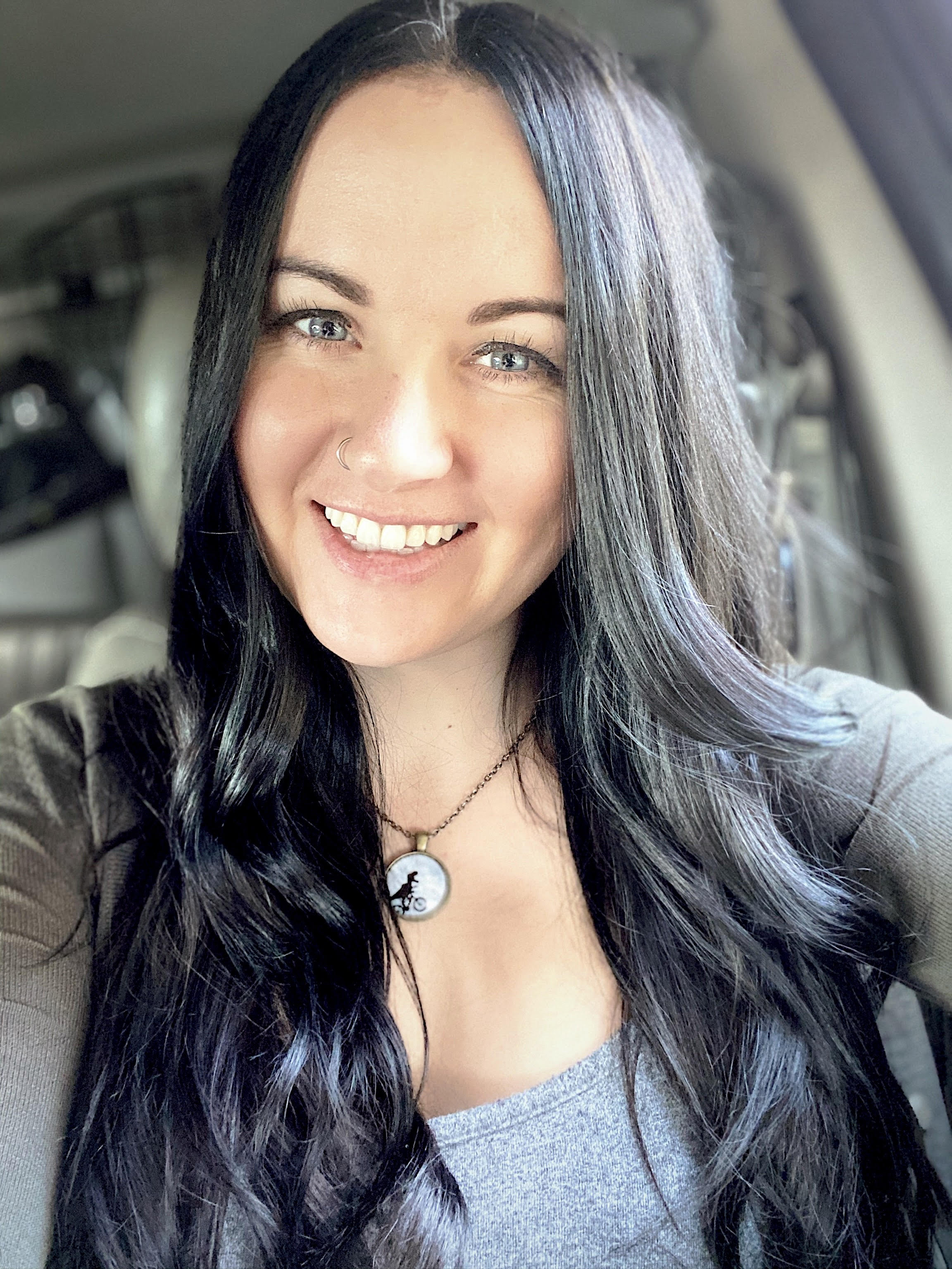
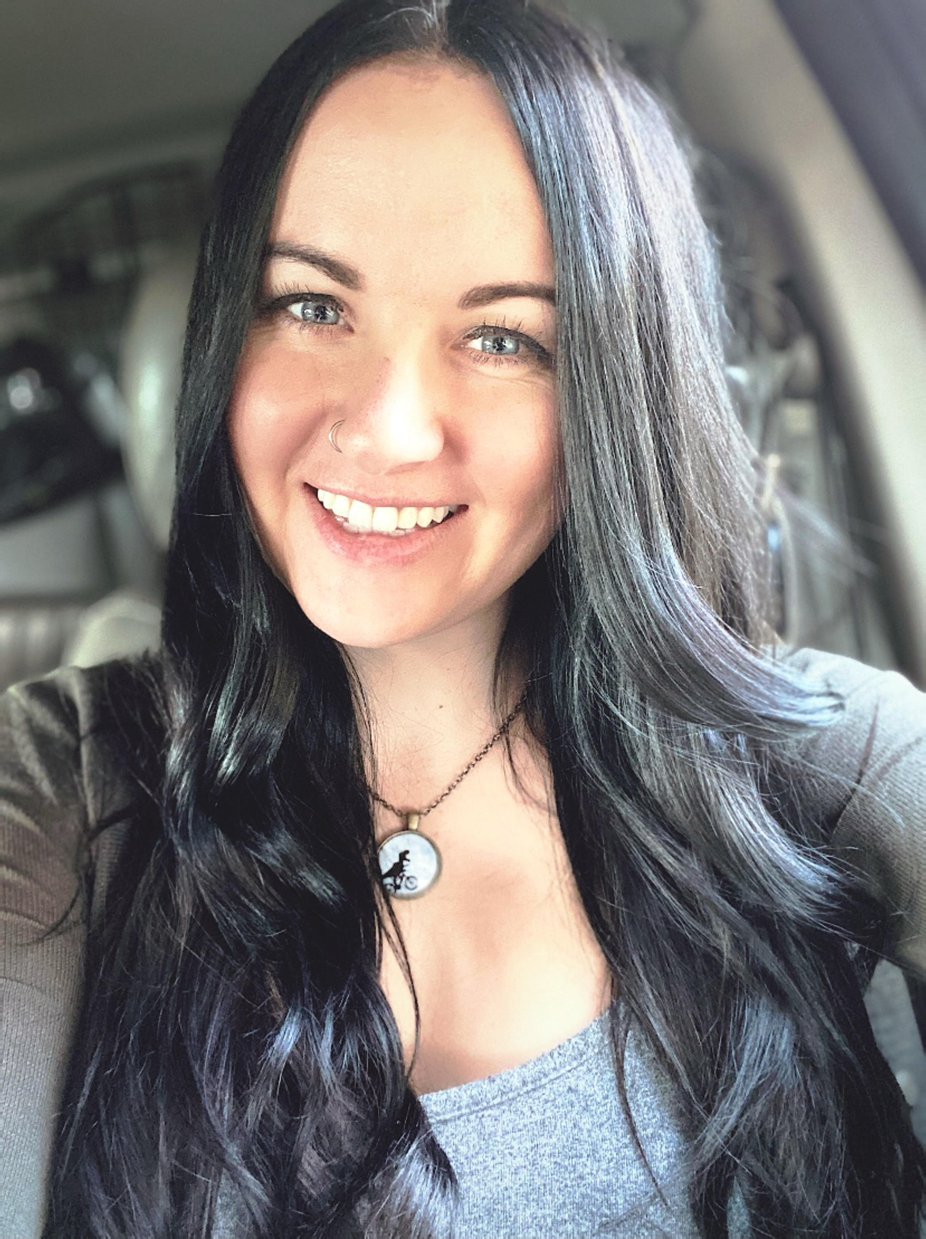
Moved profile picture into its own component and adjusted it to be a hexagon versus an oval.

diff --git a/src/components/Picture.js b/src/components/Picture.js
@@ -1,0 +1,32 @@
+import React from 'react';
+import main from '../images/main.jpg';
+
+const Picture = props => {
+    return (
+        <>
+            <svg viewBox="0 0 100 100" version="1.1" xmlns="http://www.w3.org/2000/svg" width="25%">
+            <defs>
+              <pattern id="img" patternUnits="userSpaceOnUse" width="200" height="200">
+                <image 
+                  href={main} 
+                  x="-25" 
+                  width="150" 
+                  height="110" 
+                  className="image" 
+                  alt="Main"
+                  style={{
+                      float: "left",
+                  }}/>
+              </pattern>
+            </defs>
+            <polygon 
+                points="50 1 95 25 95 75 50 99 5 75 5 25"
+                fill="url(#img)"/>
+            </svg>
+        </>
+    )
+}
+
+//<!-- "https://api.github.com/users/micah-rose/avatar_url" -->
+
+export default Picture;

diff --git a/src/containers/Header.js b/src/containers/Header.js
@@ -1,14 +1,11 @@
 import React from 'react';
-import main from '../images/main.jpg';
+import Picture from '../components/Picture';
 
 const Header = props => {
     return (
     <>
         <div className="container-fluid bg-1 text-center">
-            <div className="image" style={{float: "left", marginLeft: "50px"}}>
-                <img src={main} className="img-responsive img-circle margin" alt="Main" width="350" height="350" />
-            </div>
-  
+            <Picture />
             <div className="header-stuff" style={{display: "inline-block", marginTop: "100px"}}>
                 <h3 className="margin" style={{fontSize: "200px"}}>WELCOME</h3>
                 <h3>This is my portfolio!</h3>
